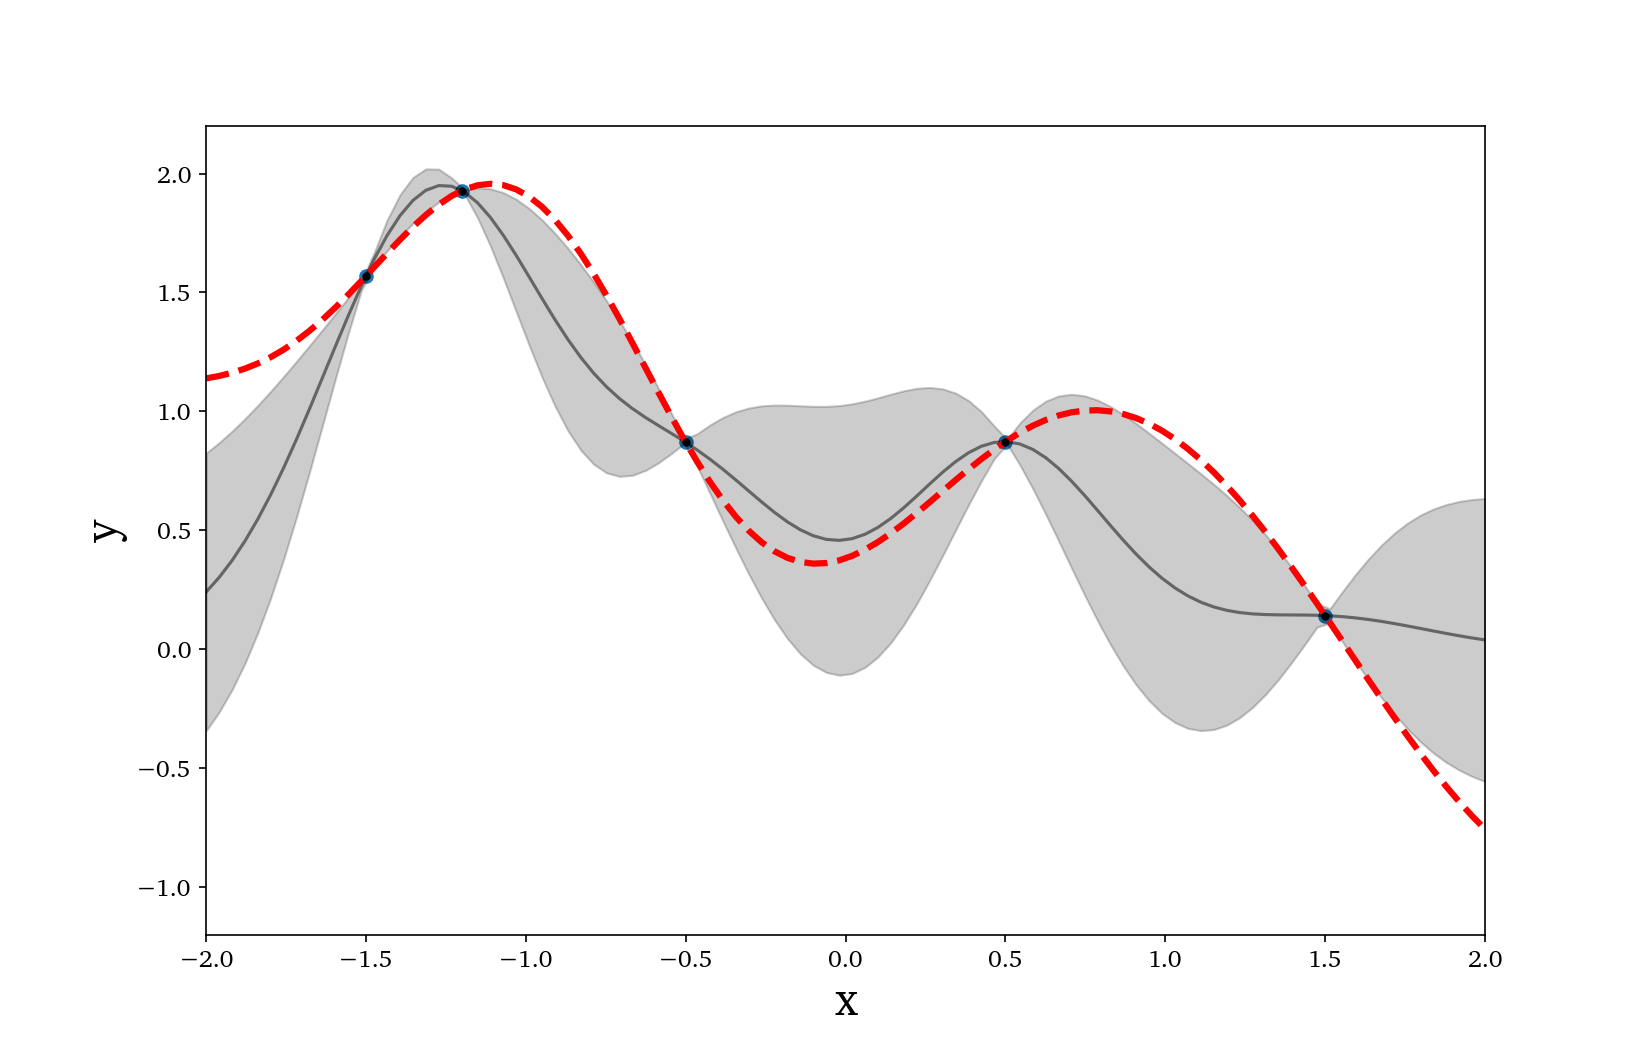
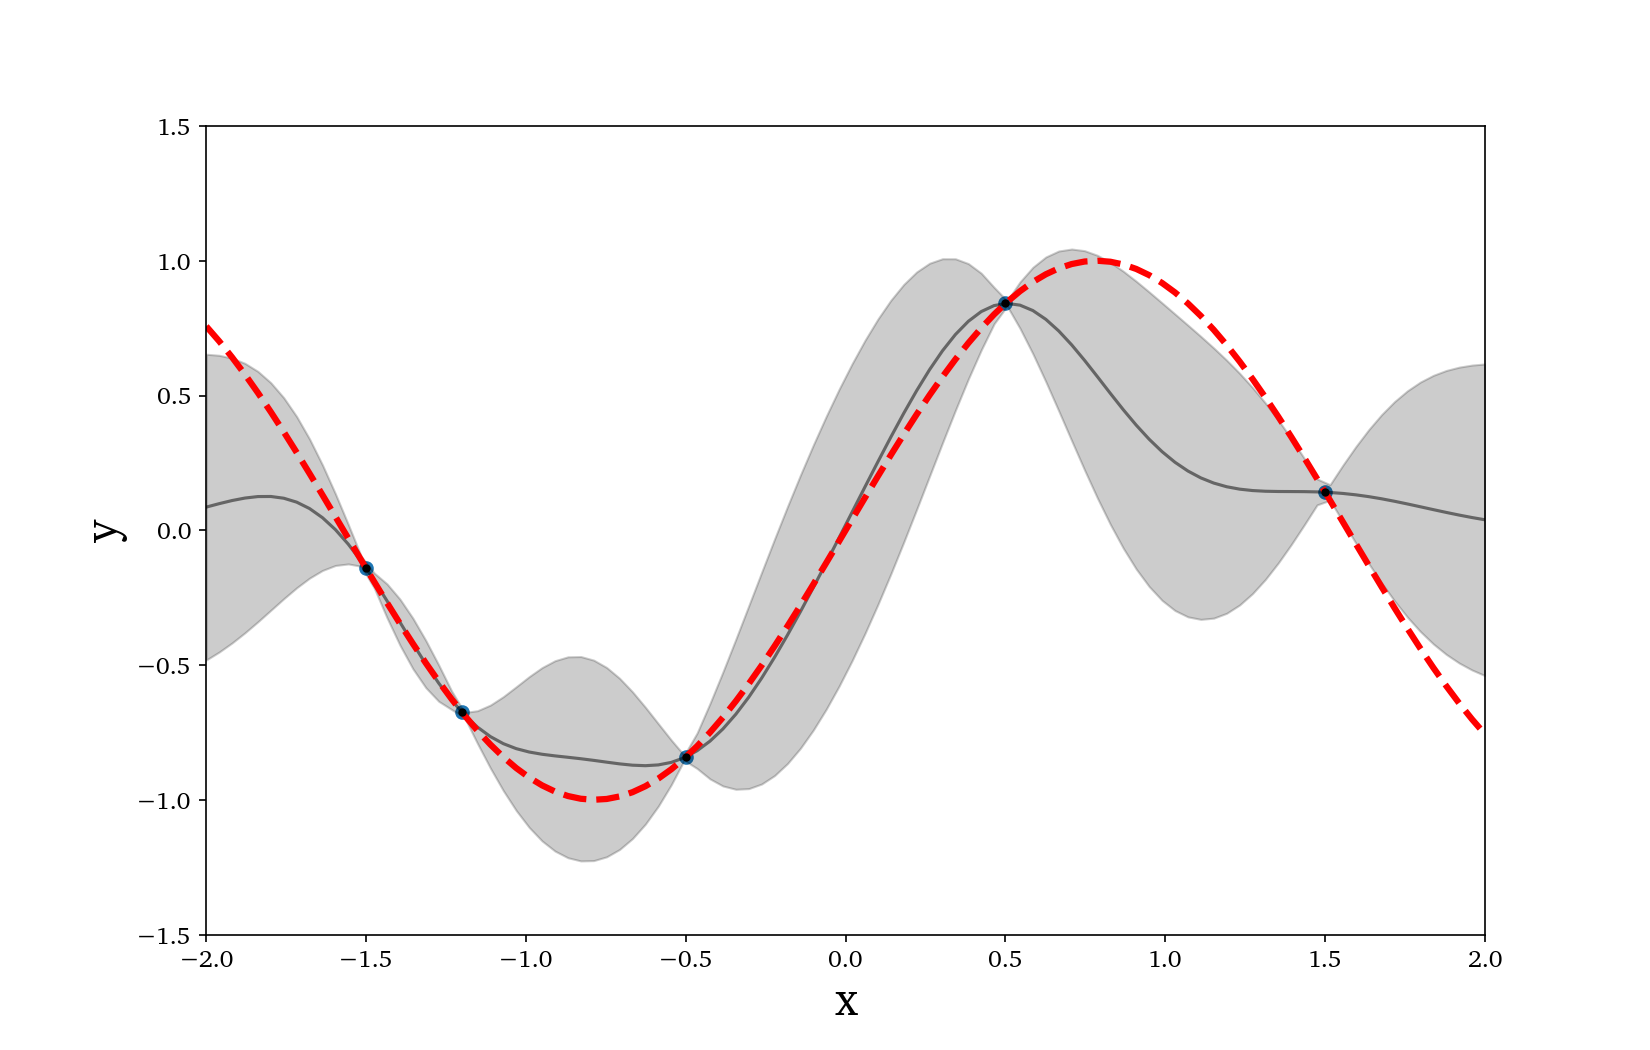
GPR updates

diff --git a/GPR/GPR.tex b/GPR/GPR.tex
@@ -146,6 +146,8 @@ This document is still in preparation. Please feel free to contact me with any s
 
 \section{Probability}
 
+\subsection{Prior and posterior}
+
 Two words that will be often used in GP are prior and posterior. The prior and posterior probabilities in GP are often linked to functions and it is important to understand their notion. 
 
 The \textbf{\textit{prior probability}} is the probability we assign to a specific object (event) before we collect further evidence or make observations that can change it. It can be viewed as an "initial guess" or "initial belief" about the given system. The \textbf{\textit{posterior probability}} is the updated prior probability that takes into account the new observations or evidence. Conceptually, we may write the following:
@@ -155,6 +157,9 @@ The \textbf{\textit{prior probability}} is the probability we assign to a specif
 \end{equation}
 
 As explained in section \ref{sec:dist_over_fun}, in GP we encounter probabilities associated to functions. The prior will be the functions that we believe will fit our data well before we actually attempt fitting these functions to new observation points. After the observations have been made, the functions get the "update" to better fit the newly arrived points and these functions that are left will become our posterior.
+
+
+\subsection{Likelihood and marginal likelihood}
 
 
 \section{Covariance matrix}

diff --git a/GPR/GPR-Python/GPR-george.py b/GPR/GPR-Python/GPR-george.py
@@ -14,9 +14,16 @@ font_axis = 12
 
 ## Code
 ## -------
+# Training input:
 x = np.array([-1.5, -1.2, -0.5, 0.5, 1.5])
+
+# Training output:
+y = np.sin(2*x)
+
+# 100 points for which we would like the GPR prediction:
+x_pred = np.linspace(-2, 2, 100)
+
 yerr = np.zeros_like(x)
-y = np.sin(2*x) + 1/(2*math.pi*0.5)**0.5 * math.e**((-(x + 1)**2)/(2*0.5**2))*5
 
 # Plot data points:
 figure = plt.figure(figsize=(11, 7))
@@ -28,16 +35,15 @@ kernel = np.var(y) * george.kernels.ExpSquaredKernel(0.1)
 gp = george.GP(kernel)
 gp.compute(x, yerr)
 
-x_pred = np.linspace(-2, 2, 100)
 pred, pred_var = gp.predict(y, x_pred, return_var=True)
 plt.fill_between(x_pred, pred - np.sqrt(pred_var), pred + np.sqrt(pred_var), color="k", alpha=0.2)
 plt.plot(x_pred, pred, "k", lw=1.5, alpha=0.5)
 plt.errorbar(x, y, yerr=yerr, fmt=".k", capsize=0)
 
 # Real data model:
-plt.plot(x_pred, np.sin(2*x_pred) + 1/(2*math.pi*0.5)**0.5 * math.e**((-(x_pred + 1)**2)/(2*0.5**2))*5, "--r", lineWidth=3)
+plt.plot(x_pred, np.sin(2*x_pred), "--r", lineWidth=3)
 plt.xlim(-2, 2)
-plt.ylim(-1.2, 2.2)
+plt.ylim(-1.5, 1.5)
 plt.xlabel(r'x', fontsize=font_label, **csfont)
 plt.ylabel(r'y', fontsize=font_label, **csfont)
 
